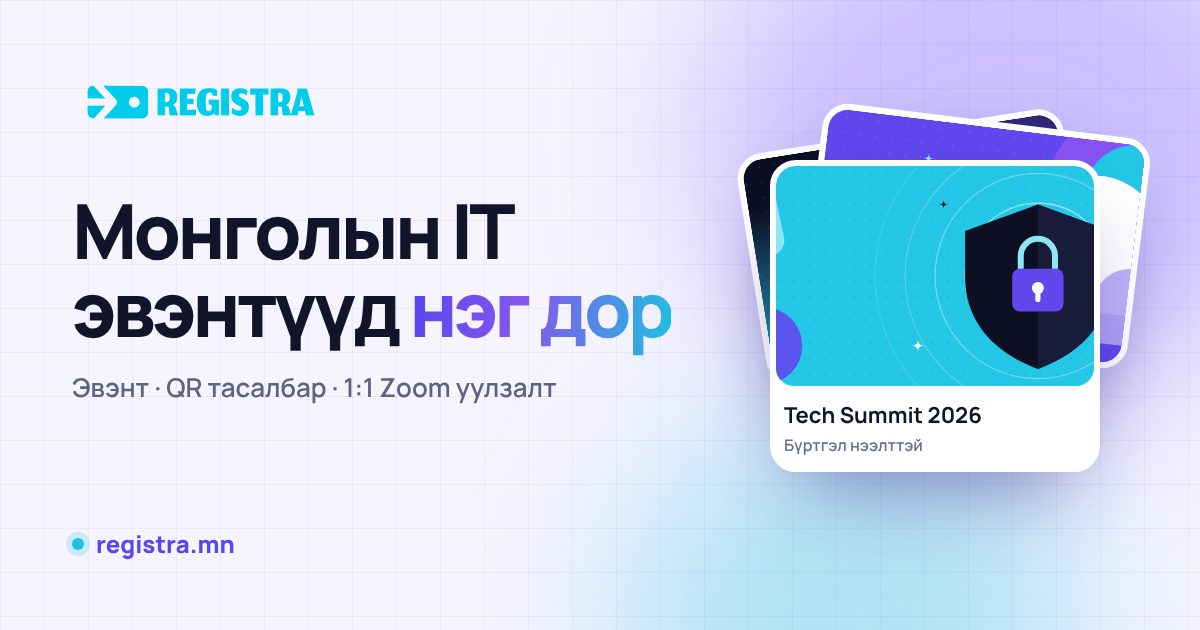
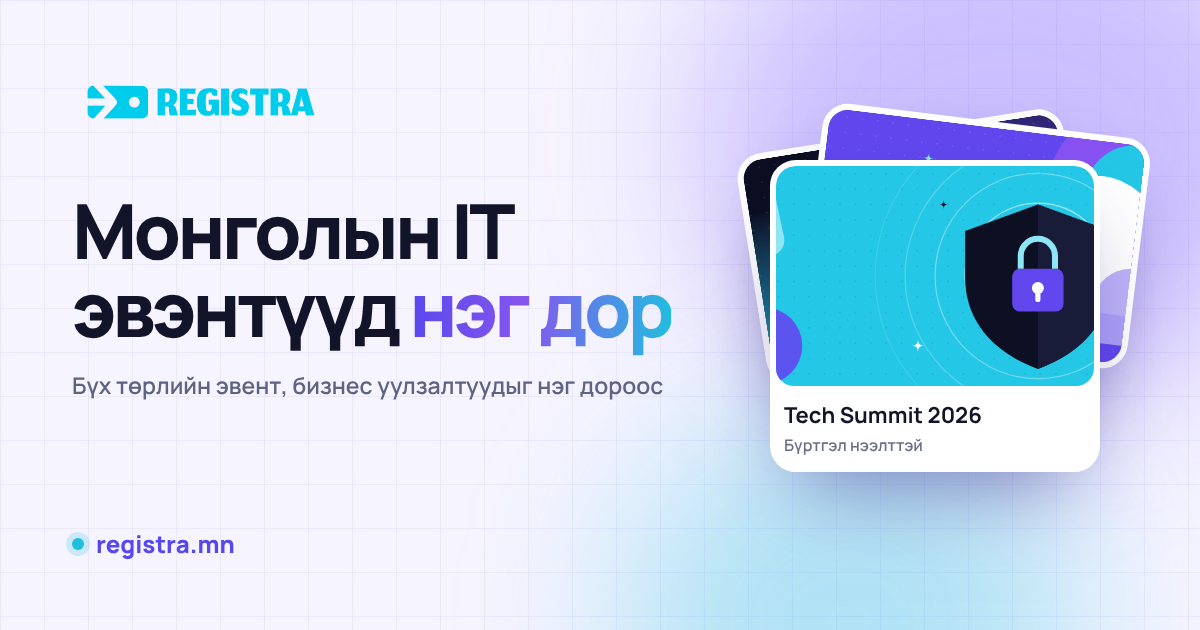
New hero subtitle, also used for link previews
"Бүх төрлийн эвент, бизнес уулзалтуудыг нэг дороос." replaces the old
hero subtitle and the default link-preview description (index.html and
the server-side preview), and the share image shows it on one line.

Claude-Session: https://claude.ai/code/session_017pxhsCfpkxqoZJDcrNxzSP

Changed region(s): [[0.0617, 0.6032, 0.555, 0.6333]]

diff --git a/index.html b/index.html
@@ -9,7 +9,7 @@
 
     <meta
       name="description"
-      content="Монголын IT эвэнтүүдийг нэг дороос олж бүртгүүл. QR тасалбар, ирц бүртгэл, эвэнтийн дараах 1:1 Zoom уулзалт."
+      content="Бүх төрлийн эвент, бизнес уулзалтуудыг нэг дороос."
     />
 
     <meta property="og:type" content="website" />
@@ -18,7 +18,7 @@
     <meta property="og:title" content="Registra — Монголын IT эвэнтүүд нэг дор" />
     <meta
       property="og:description"
-      content="Монголын IT эвэнтүүдийг нэг дороос олж бүртгүүл. QR тасалбар, ирц бүртгэл, эвэнтийн дараах 1:1 Zoom уулзалт."
+      content="Бүх төрлийн эвент, бизнес уулзалтуудыг нэг дороос."
     />
     <meta property="og:image" content="http://registra.mn/og-image.png" />
     <meta property="og:image:width" content="1200" />
@@ -30,7 +30,7 @@
     <meta name="twitter:title" content="Registra — Монголын IT эвэнтүүд нэг дор" />
     <meta
       name="twitter:description"
-      content="Монголын IT эвэнтүүдийг нэг дороос олж бүртгүүл. QR тасалбар, ирц бүртгэл, эвэнтийн дараах 1:1 Zoom уулзалт."
+      content="Бүх төрлийн эвент, бизнес уулзалтуудыг нэг дороос."
     />
     <meta name="twitter:image" content="http://registra.mn/og-image.png" />
 

diff --git a/backend/utils/sharePreview.js b/backend/utils/sharePreview.js
@@ -9,7 +9,7 @@ import { NEWS_IS_VISIBLE } from "../routes/news.routes.js";
 
 const SITE_TITLE = "Registra — Монголын IT эвэнтүүд нэг дор";
 const SITE_DESCRIPTION =
-  "Монголын IT эвэнтүүдийг нэг дороос олж бүртгүүл. QR тасалбар, ирц бүртгэл, эвэнтийн дараах 1:1 Zoom уулзалт.";
+  "Бүх төрлийн эвент, бизнес уулзалтуудыг нэг дороос.";
 const DEFAULT_IMAGE = "/og-image.png";
 const WEEKDAYS = ["Ням", "Даваа", "Мягмар", "Лхагва", "Пүрэв", "Баасан", "Бямба"];
 

diff --git a/src/pages/public/HomeHero.jsx b/src/pages/public/HomeHero.jsx
@@ -94,7 +94,7 @@ export default function HomeHero({ events }) {
           </h1>
 
           <p className="hhLead">
-            Хурал, workshop, meetup-аа олж бүртгүүл. Эвэнтийн дараа хэрэгтэй хүмүүстэйгээ 1:1 Zoom уулзалт товлоорой.
+            Бүх төрлийн эвент, бизнес уулзалтуудыг нэг дороос.
           </p>
 
           <form className="hhSearch" role="search" onSubmit={search}>
